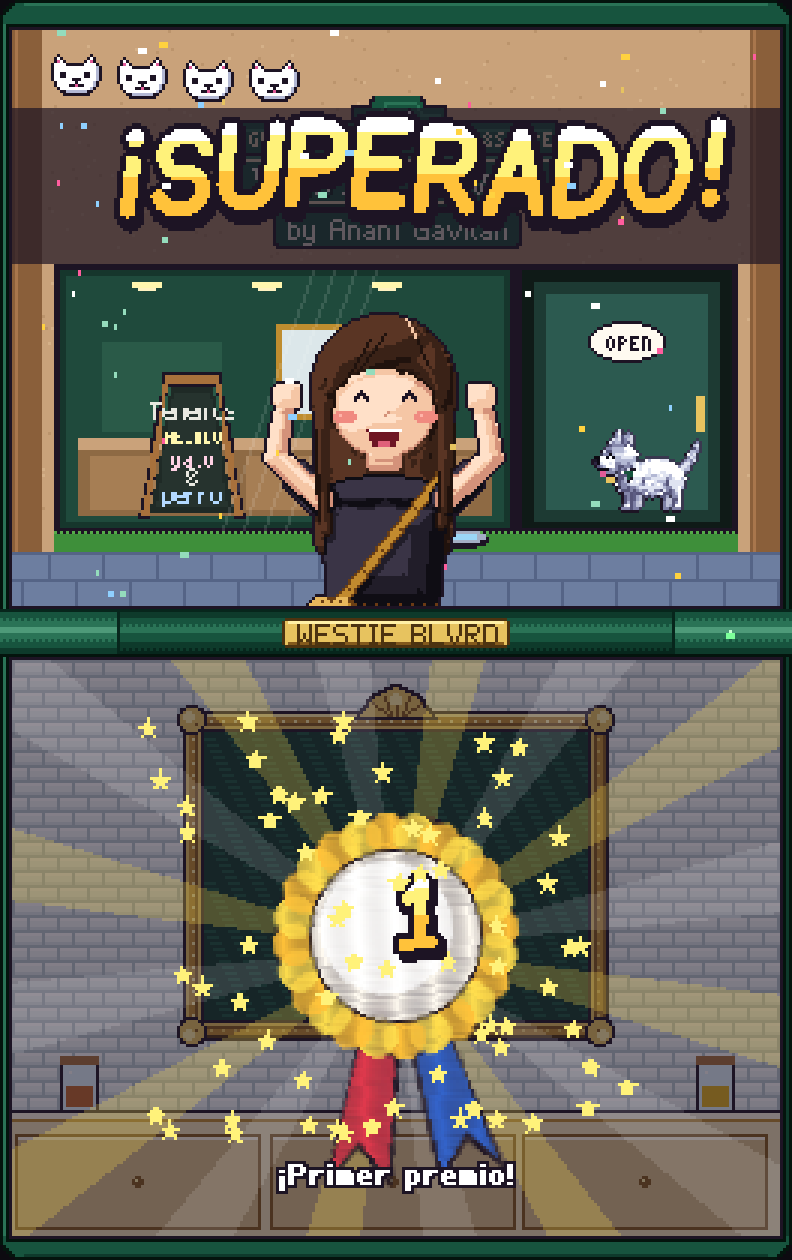
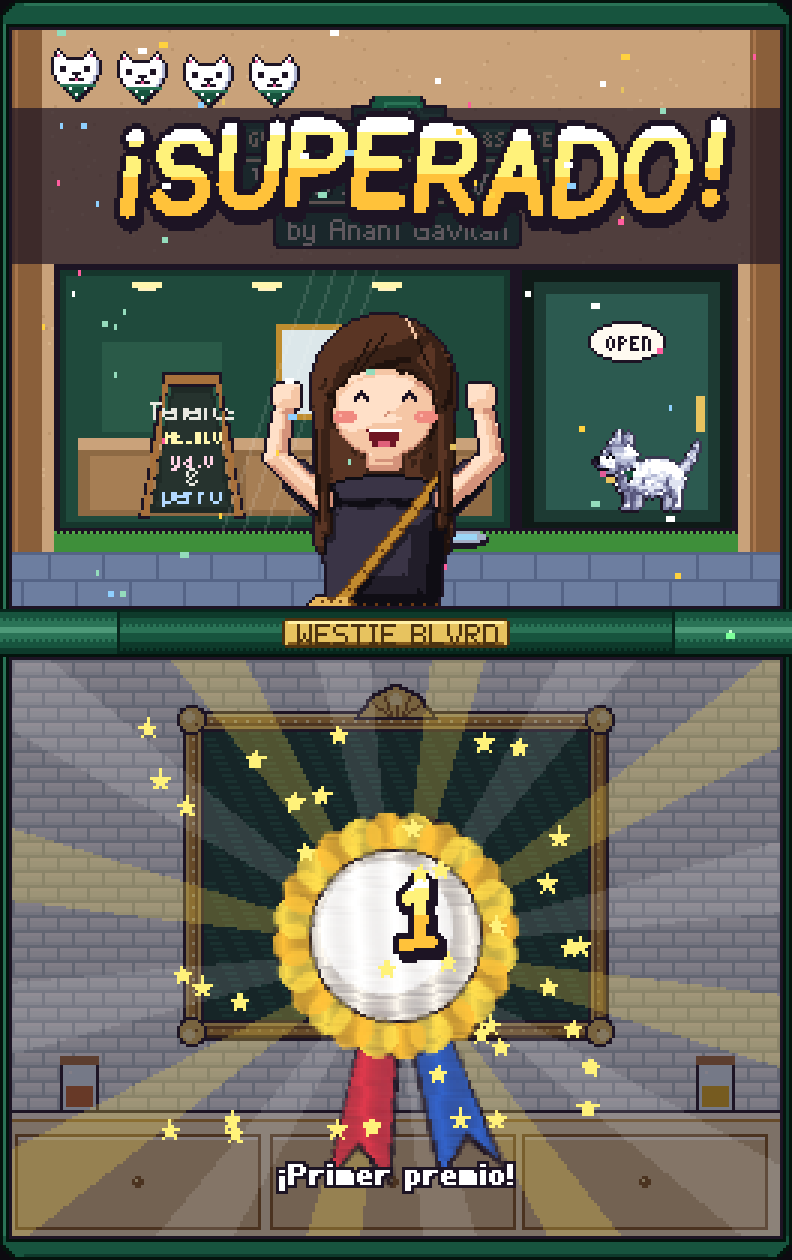
Keiko's bandana on Anahí's lives

diff --git a/index.html b/index.html
@@ -1416,7 +1416,7 @@ function lifeWestie(sad) {
 }
 
 // ---------------------------------------------------------------- KEIKO -----
-// Anahí's sister's westie and the game's mascot: the westie head plus her
+// Anahí's westie and the game's mascot: the westie head plus her
 // Westie-green bandana with tiny white paw prints.
 function keikoHead(ex = 'normal') {
   return mdl('keikoHead:' + ex, () => {
@@ -1427,6 +1427,16 @@ function keikoHead(ex = 'normal') {
     hline(g, 18, 46, 47, INK); hline(g, 19, 45, 48, G[3]);
     for (const [x, y] of [[26, 51], [36, 51], [31, 56]]) { px(g, x, y, '#ffffff'); px(g, x + 1, y, '#ffffff'); px(g, x, y - 1, '#d2f5e4'); }
     disc(g, 32, 48, 2, INK); disc(g, 32, 48, 1.3, G[3]);
+    return c;
+  });
+}
+// a life on Anahí's top screen: Keiko's little head, bandana and all
+function lifeKeiko(sad) {
+  return mdl('lifeK' + (sad ? 's' : ''), () => {
+    const h = lifeWestie(sad), c = mkCanvas(h.width, h.height + 4), g = c.g, G = RAMP.green;
+    g.drawImage(h, 0, 0);
+    polyPx(g, [[2, 12], [15, 12], [8.5, 18.5]], INK); polyPx(g, [[3, 12], [14, 12], [8.5, 17]], G[2]);
+    hline(g, 3, 14, 12, G[3]); px(g, 6, 13, '#ffffff'); px(g, 11, 13, '#ffffff'); px(g, 8, 15, '#ffffff');
     return c;
   });
 }
@@ -3460,8 +3470,8 @@ function anahiRoomBot(g, S) {
 function anahiLife(g, x, y, st, bt, S) {
   const sadNow = S && S.phase === 'inter' && S.react === 'lose' && S.reactT < 1.3;
   if (st === 'gone') return;
-  if (st === 'break') { const k = clamp(bt / .9, 0, 1); if (k < 1) drawS(g, lifeWestie(true), x, y + E.inQ(k) * 6, { s: 1 - E.inQ(k), rot: k * .6 }); return; }
-  drawS(g, lifeWestie(sadNow), x, y + (sadNow ? 1 : 0));
+  if (st === 'break') { const k = clamp(bt / .9, 0, 1); if (k < 1) drawS(g, lifeKeiko(true), x, y + E.inQ(k) * 6, { s: 1 - E.inQ(k), rot: k * .6 }); return; }
+  drawS(g, lifeKeiko(sadNow), x, y + (sadNow ? 1 : 0));
 }
 function anahiMini(g, x, y, st, S) {
   const pose = st === 'win' ? 'win' : st === 'lose' ? 'lose' : 'idle';

diff --git a/src/art.js b/src/art.js
@@ -175,7 +175,7 @@ function lifeWestie(sad) {
 }
 
 // ---------------------------------------------------------------- KEIKO -----
-// Anahí's sister's westie and the game's mascot: the westie head plus her
+// Anahí's westie and the game's mascot: the westie head plus her
 // Westie-green bandana with tiny white paw prints.
 function keikoHead(ex = 'normal') {
   return mdl('keikoHead:' + ex, () => {
@@ -186,6 +186,16 @@ function keikoHead(ex = 'normal') {
     hline(g, 18, 46, 47, INK); hline(g, 19, 45, 48, G[3]);
     for (const [x, y] of [[26, 51], [36, 51], [31, 56]]) { px(g, x, y, '#ffffff'); px(g, x + 1, y, '#ffffff'); px(g, x, y - 1, '#d2f5e4'); }
     disc(g, 32, 48, 2, INK); disc(g, 32, 48, 1.3, G[3]);
+    return c;
+  });
+}
+// a life on Anahí's top screen: Keiko's little head, bandana and all
+function lifeKeiko(sad) {
+  return mdl('lifeK' + (sad ? 's' : ''), () => {
+    const h = lifeWestie(sad), c = mkCanvas(h.width, h.height + 4), g = c.g, G = RAMP.green;
+    g.drawImage(h, 0, 0);
+    polyPx(g, [[2, 12], [15, 12], [8.5, 18.5]], INK); polyPx(g, [[3, 12], [14, 12], [8.5, 17]], G[2]);
+    hline(g, 3, 14, 12, G[3]); px(g, 6, 13, '#ffffff'); px(g, 11, 13, '#ffffff'); px(g, 8, 15, '#ffffff');
     return c;
   });
 }

diff --git a/src/stages/anahi.js b/src/stages/anahi.js
@@ -99,8 +99,8 @@ function anahiRoomBot(g, S) {
 function anahiLife(g, x, y, st, bt, S) {
   const sadNow = S && S.phase === 'inter' && S.react === 'lose' && S.reactT < 1.3;
   if (st === 'gone') return;
-  if (st === 'break') { const k = clamp(bt / .9, 0, 1); if (k < 1) drawS(g, lifeWestie(true), x, y + E.inQ(k) * 6, { s: 1 - E.inQ(k), rot: k * .6 }); return; }
-  drawS(g, lifeWestie(sadNow), x, y + (sadNow ? 1 : 0));
+  if (st === 'break') { const k = clamp(bt / .9, 0, 1); if (k < 1) drawS(g, lifeKeiko(true), x, y + E.inQ(k) * 6, { s: 1 - E.inQ(k), rot: k * .6 }); return; }
+  drawS(g, lifeKeiko(sadNow), x, y + (sadNow ? 1 : 0));
 }
 function anahiMini(g, x, y, st, S) {
   const pose = st === 'win' ? 'win' : st === 'lose' ? 'lose' : 'idle';
